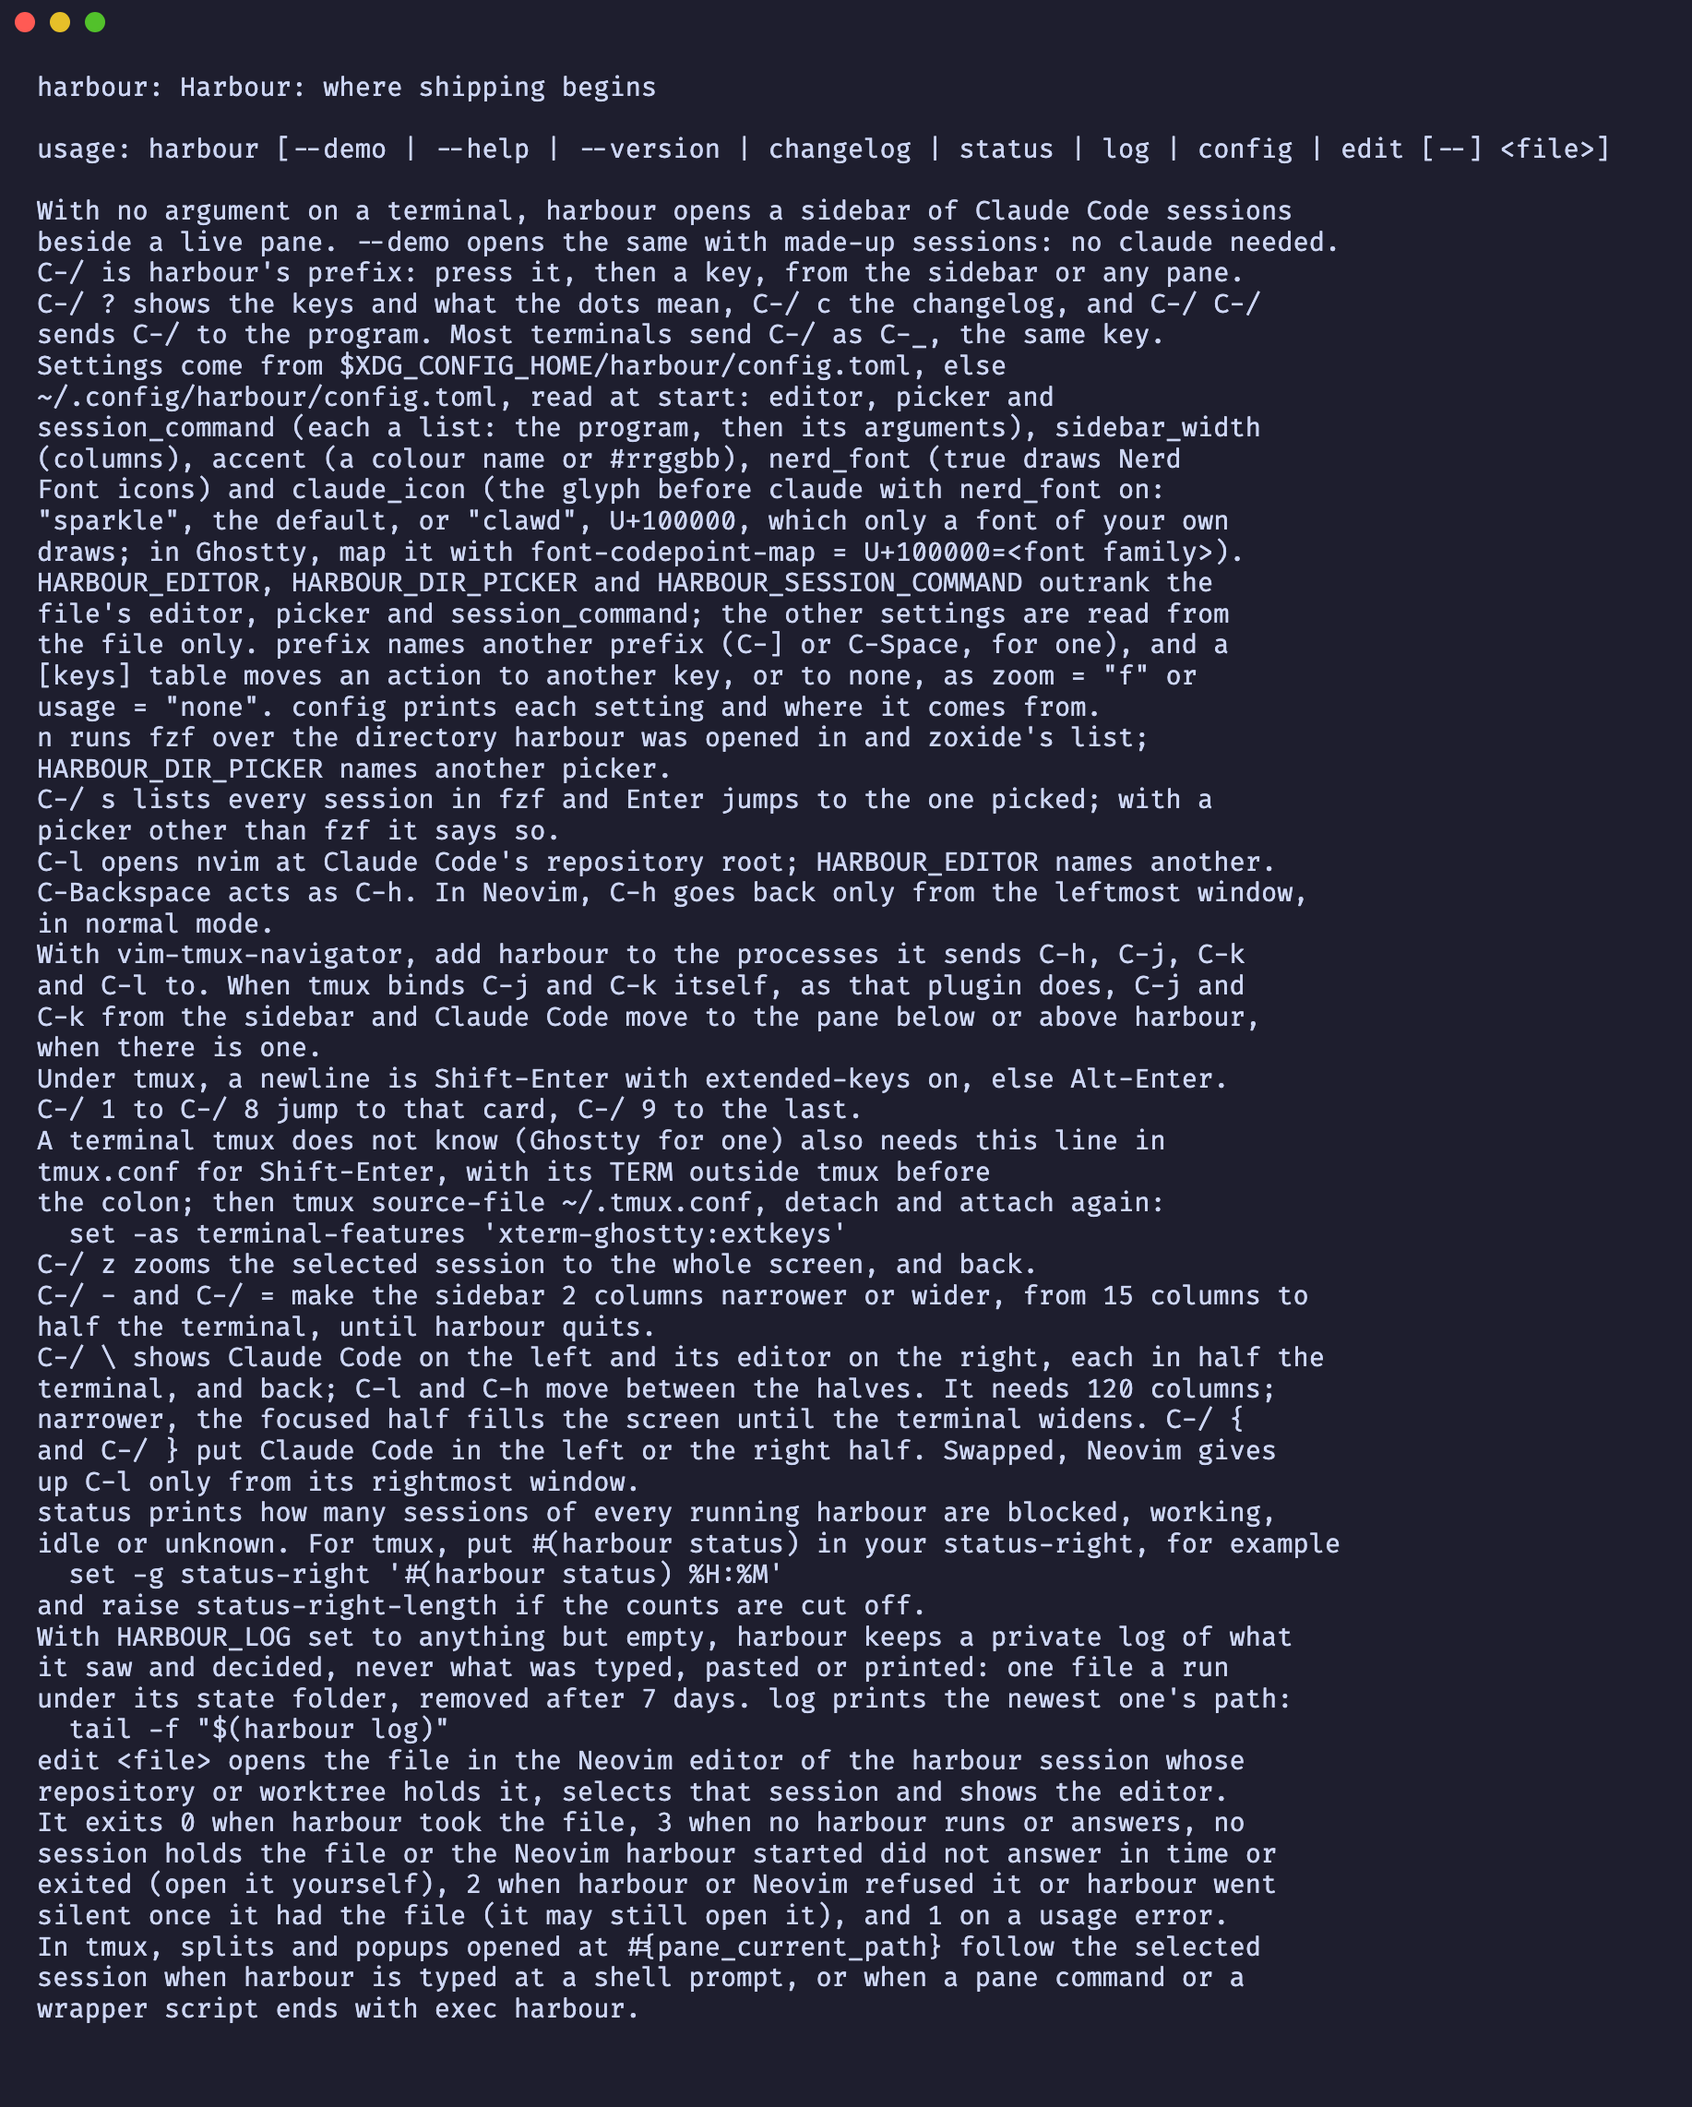
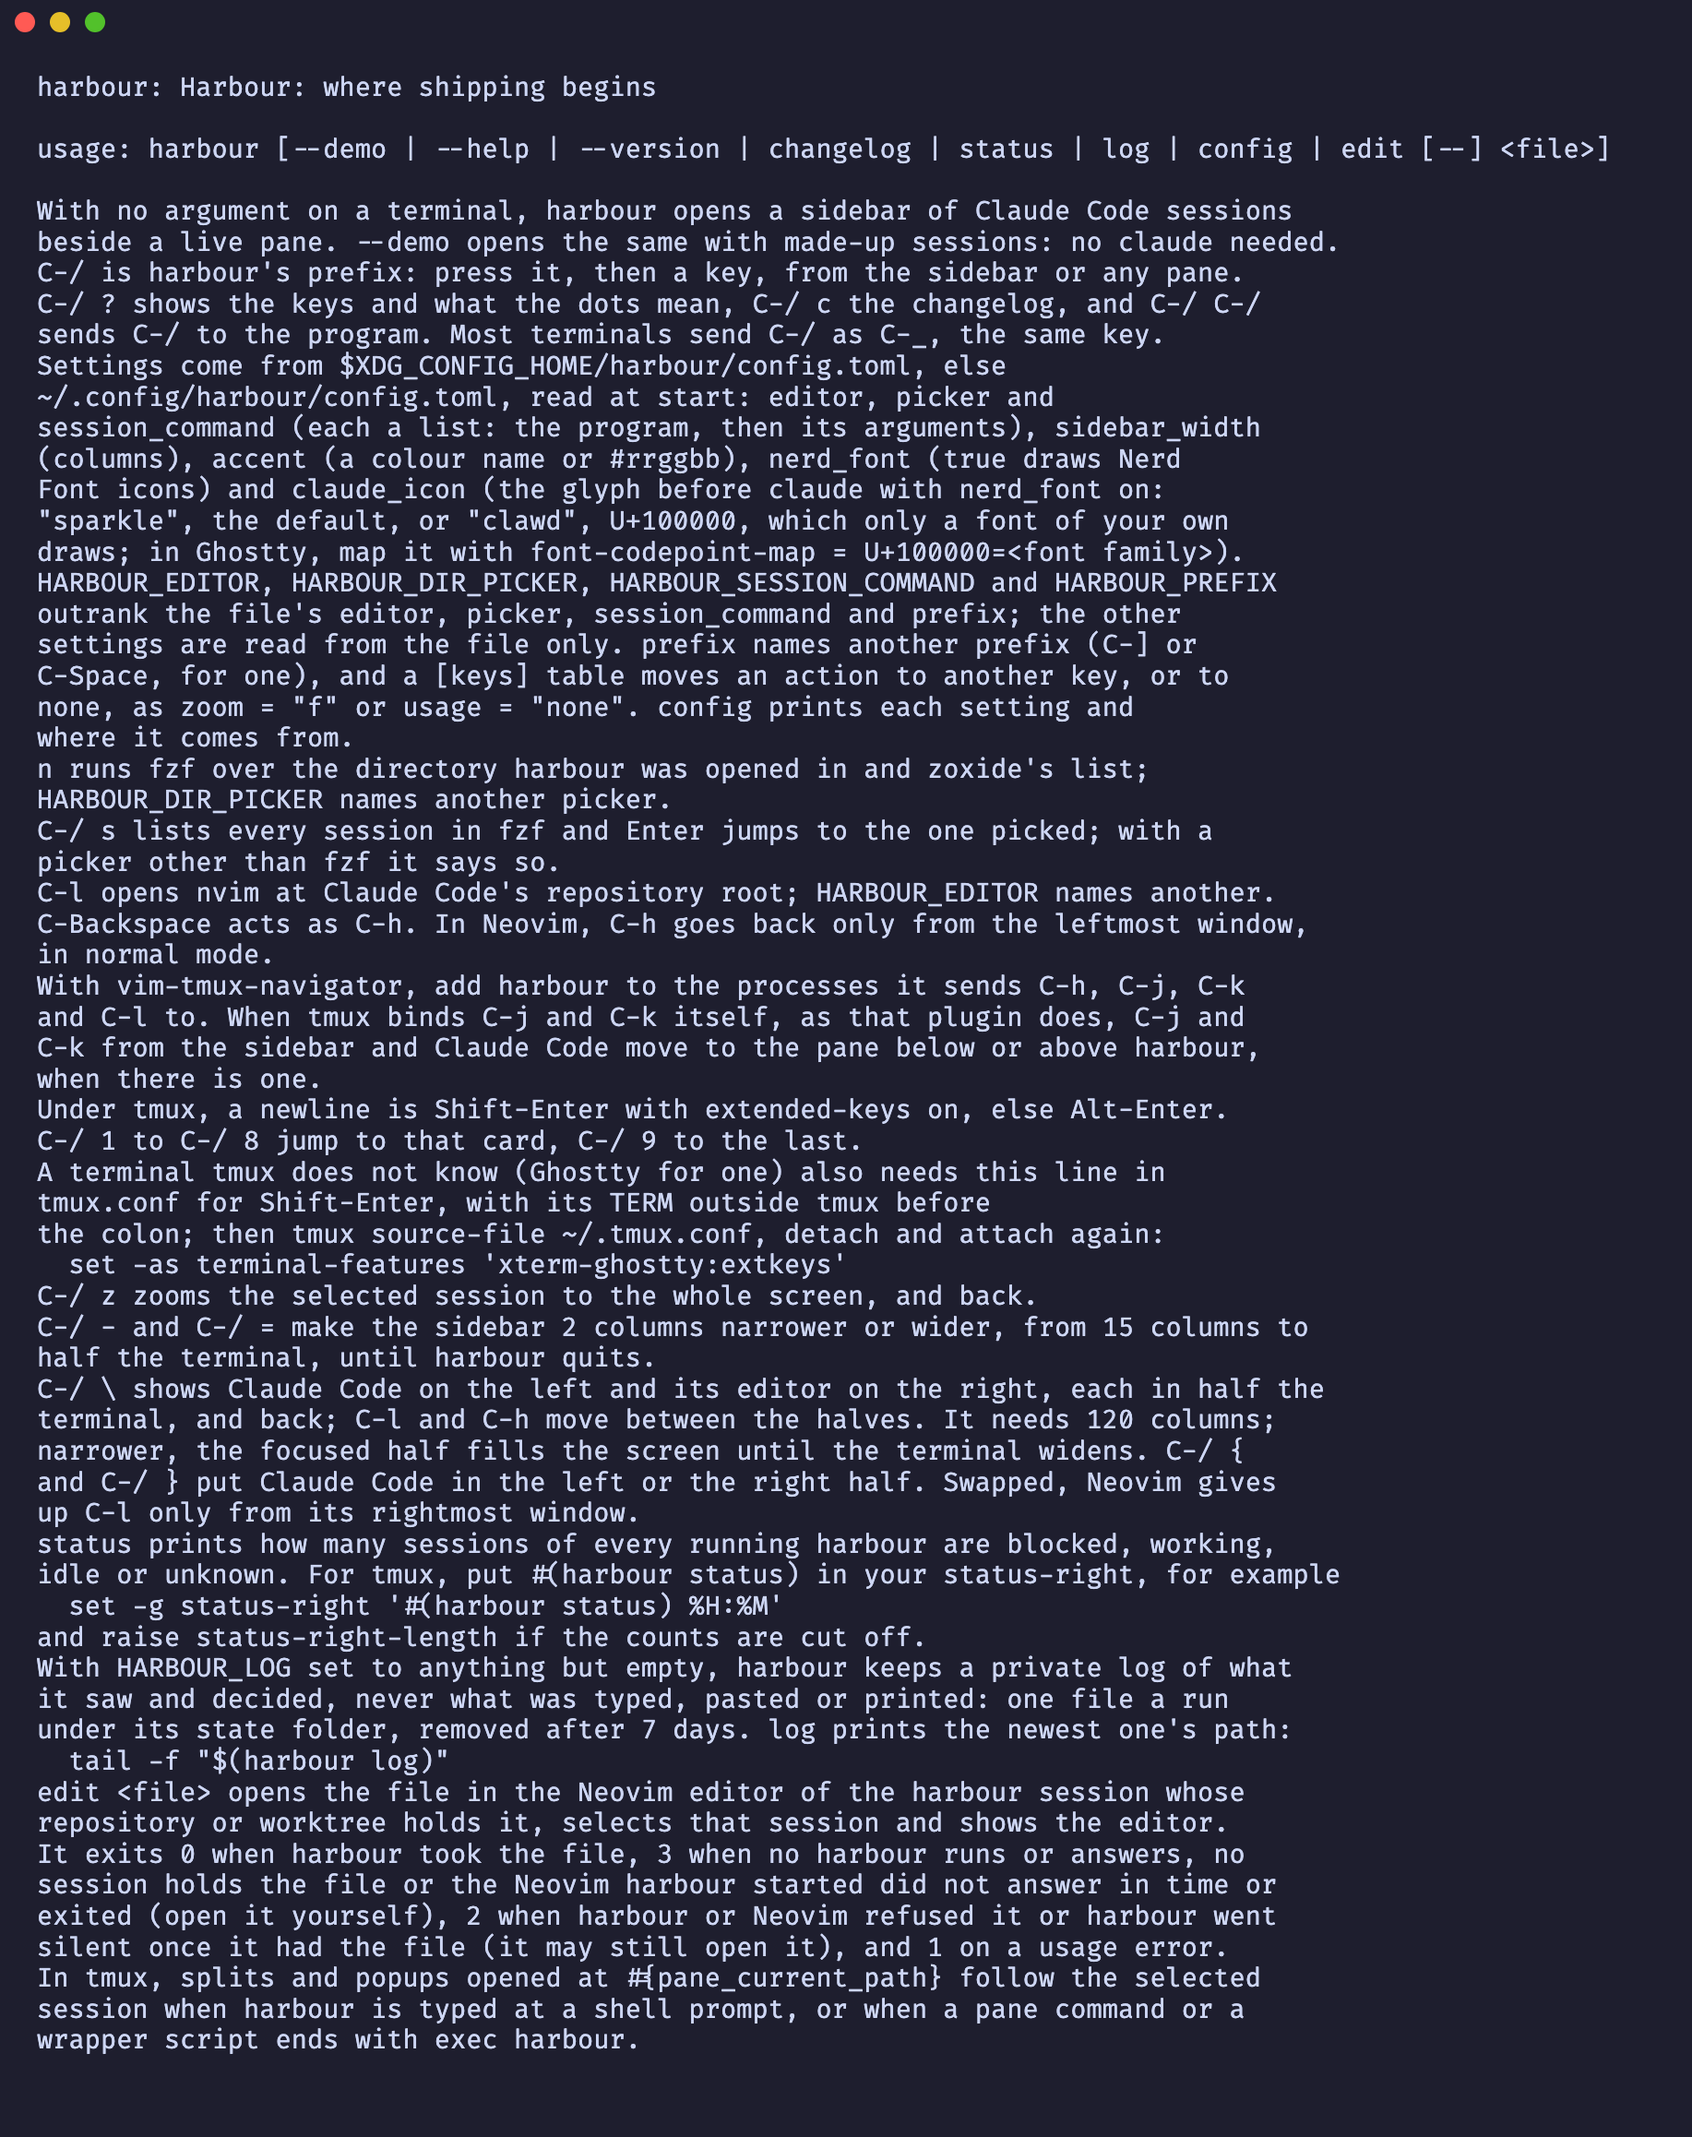
Phase 37 outcome, hurdles and metrics, and the help screenshot naming HARBOUR_PREFIX

Changed region(s): [[0.0, 0.0622, 0.777, 0.9637], [0.9013, 0.0622, 0.9324, 0.0933], [0.3419, 0.0311, 0.373, 0.0622]]

diff --git a/plans/metrics.md b/plans/metrics.md
@@ -59,4 +59,4 @@ costs context.
 | 34 | #126 | 2026-11-22 01:02:54Z | 01:07:09Z | 01:58Z | 02:02:39Z | 02:22:29Z | 02:24:41Z (v0.29.0) | 1 h 21 min 47 s | 3 | unknown: the builder cannot read its own completion notices | measured, `subagent_tokens` of the `/code-review` skill, one per round: round 1: 129419, round 2: 140171, round 3: 144466 | none | context 99348 at start, 104194 at the clean review, measured from its transcript; tokens unknown | 55 min from build start (01:02:54Z) to the end of the clean review round (01:58Z). Build start from the worktree's reflog, the draft from `gh pr view 126 --json createdAt`. Main was merged into this branch once, before review round 1. Ready, merged and released were written by phase 35, read from GitHub; start → end runs to the v0.29.0 release. |
 | 35 | #129 | 2026-11-22 02:51:57Z | 05:29:00Z | 05:46Z | 05:50:20Z | 05:58:09Z | 05:59:30Z (v0.30.0) | 3 h 7 min 33 s | 2 | unknown: the orchestrator built it itself, no builder agent | measured, `subagent_tokens` of the `/code-review` skill, one per round: round 1: 116856, round 2: 123008 | none | context 105347 at start, 149075 at the clean review, measured from its transcript, with one compaction between them; tokens unknown | 2 h 54 min from build start (02:51:57Z) to the end of the clean review round (05:46Z), about 1 h 50 min of it a wait the owner asked for, until 05:25Z. Build start from the worktree's reflog, the draft from `gh pr view 129 --json createdAt`. Round 2's three findings were minor; the test order and this row were fixed without another round. Ready, merged and released were written by phase 36, read from GitHub; start → end runs to the v0.30.0 release. |
 | 36 | #133 | 2026-11-22 15:55:50Z | 16:03:30Z | 16:21Z | | | | | 2 | unknown: the orchestrator built it itself, no builder agent | measured, `subagent_tokens` of the `/code-review` skill, one per round: round 1: 135059, round 2: 139736 | none | context 87662 at start, 166465 at the clean review, measured from its transcript, with one compaction between them; tokens unknown | 25 min from build start (15:55:50Z) to the end of the clean review round (16:21Z). Build start from the worktree's reflog, the draft from `gh pr view 133 --json createdAt`. Round 2's three findings were minor; the phase 35 release link, a dead assertion and a known limit's wording were fixed without another round. |
-| 37 | | | | | | | | | | | | | | Planned on 2026-11-22; not built yet. |
+| 37 | #135 | 2026-11-22 20:41:33Z | 20:54:51Z | 2026-11-23 01:06Z | | | | | 3 | measured, `subagent_tokens` of the completion notices, one per notice, not a running total: 126542, 114250, 156762, 141440, 144834, 161314, 163805; the notice of the last ship is not known when this row is written | measured, `subagent_tokens` of the `/code-review` skill, one per round: round 1: 167038, round 2: 165472, round 3: 95214 | none | context 111501 at start (2026-11-22T20:41:53Z), 152089 at the end of the last round (2026-11-23T01:06:57Z), measured from its transcript, with one compaction between them; tokens unknown | 4 h 25 min from build start (20:41:33Z) to the end of the last review round (2026-11-23 01:06Z), including a pause of unknown length at a usage limit. The loop ended at the owner's 3-round limit with no must left; the orchestrator read the round 3 fix. Build start from the worktree's reflog, the draft from `gh pr view 135 --json createdAt`. |

diff --git a/plans/phase-37-prefix-key.md b/plans/phase-37-prefix-key.md
@@ -278,4 +278,32 @@ for the clean break.
 
 ## Outcome
 
+- One prefix key, `C-/` by default (`C-_` is the same byte), then a key runs harbour's actions
+  from the sidebar and from every pane, with or without tmux's extended keys: zoom, side by side
+  and the swap, the session finder, the sidebar widths (repeatable for 500 ms), usage, changelog,
+  help, quit, new, end, the editor and the focus of the sidebar and the pane, and `1` to `9` for
+  the jumps. The prefix twice sends it on to the
+  focused program. The Alt keys, `C-1` to `C-9` and the sidebar's single-letter actions are gone.
+- The settings: `prefix` (`HARBOUR_PREFIX`, then the file) and a `[keys]` table binding each
+  action, every refusal of the States table, all reported by `harbour config` with their source.
+- What it draws: the waiting prefix on the focused border, the `<prefix> ? help` hint on the
+  sidebar's bottom border, the help rows naming the keys in force, the README key table, and a
+  `prefix` screenshot; `harbour --help` names `C-_` and `HARBOUR_PREFIX`.
+- The two checks of task 1, written under Verified facts: Claude Code 2.1.330 reads `0x1f` as
+  undo and binds nothing to `ctrl+/`, so the prefix twice reaches its prompt as undo; under tmux
+  3.8 a real terminal's `C-/` arrives as `0x1f` or as an extended form of Ctrl with `/` or `_` in
+  every `extended-keys` mode, so the prefix matches all of them.
+- The decisions taken without the owner are listed in the pull request body, under "Decisions
+  taken without the owner".
+- Three review rounds, the limit the owner set: round 1 fixed 2 important findings and 4 nits,
+  round 2 3 important and 4 nits, round 3 1 important and 2 nits. One nit was declined as
+  unreachable (the zoomed mark's pad with no counts: zoom needs a running session, so the counts
+  are never empty), and two as plan decisions (the Shift forms of `n` and `x` acting in the
+  sidebar, the width repeat in any focus). The loop stopped at the round limit with no must
+  left, and the orchestrator read the last round's fix.
+
 ## Hurdles
+
+- `review-loop` each round found another state of the prefix the States table had not listed (a question over the pane, the help and changelog toggles, Alt with the prefix as Esc typed fast), fixed within the 3-round limit → code
+- `process` the two plan commits carry a Co-Authored-By trailer, against the no-attribution rule; dropped from the squash body at merge → none
+- `process` the build paused at a usage limit for a length nobody recorded, so the wall time includes it → none
